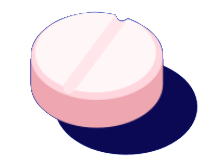
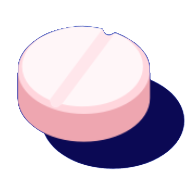
💊 improve home screen

diff --git a/frontend/src/views/scan.tsx b/frontend/src/views/scan.tsx
@@ -1,4 +1,4 @@
-import React, { useCallback, useEffect, useRef, useState } from 'react'
+import React, { useEffect, useRef, useState } from 'react'
 import { Button } from '../components/button'
 import { cs } from '../cs'
 import { functions, storage } from '../firebase'
@@ -84,7 +84,7 @@ export function ScanView() {
       navigator.permissions.query({ name: 'camera' }).then((result) => {
         setPermission(result.state)
         if (result.state === 'granted') {
-          start()
+          capturer.current.start()
         }
 
         result.onchange = function () {
@@ -102,9 +102,9 @@ export function ScanView() {
     }
   }, [])
 
-  const start = useCallback(() => {
+  const handleStartButton = () => {
     capturer.current.start()
-  }, [])
+  }
 
   const capture = async () => {
     setProcessing(true)
@@ -139,7 +139,7 @@ export function ScanView() {
       <div>
         <p>Place the prescription label within the frame.</p>
       </div>
-      {permission === 'prompt' ? <button onClick={start}>Start</button> : null}
+      {permission === 'prompt' ? <button onClick={handleStartButton}>Start</button> : null}
       <div className={cs('fixed', 'bottom-0', 'left-0', 'right-0', 'flex', 'justify-center', 'pb-8')}>
         <Button onClick={capture}>Scan</Button>
       </div>

diff --git a/frontend/src/views/home.tsx b/frontend/src/views/home.tsx
@@ -15,11 +15,24 @@ export function Home() {
 
 function MedicationCard() {
   return (
-    <div className={cs('rounded-md', 'bg-brand-white', 'p-6', 'text-brand-primary', 'flex')}>
-      <div></div>
+    <div className={cs('rounded-md', 'bg-brand-white', 'py-5', 'px-6', 'text-brand-primary', 'flex')}>
+      <div className={cs('w-24', 'h-24', 'mr-4')}>
+        <img src="/pills/tablet.png" width="220" height="166" className={cs('w-full', 'h-full', 'object-contain')} />
+      </div>
       <div className={cs('flex-grow', 'flex', 'flex-col')}>
-        <h3 className={cs('font-bold')}>Probiotic, 250mg</h3>
-        <span>1 pill, once per day</span>
+        <div className={cs('flex-grow')}>
+          <h3 className={cs('font-bold')}>Probiotic, 250mg</h3>
+          <span>1 pill, once per day</span>
+        </div>
+        <div className={cs('flex', 'h-5', 'items-center')}>
+          <div className={cs('flex-grow', 'flex', 'items-center')}>
+            <i className={cs('fas', 'fa-clock', 'leading-none', 'inline-block', 'h-4')}></i>
+            <div className={cs('ml-2')}>
+              <span>09:00AM</span>
+            </div>
+          </div>
+          <i className={cs('far', 'fa-bell', 'leading-none', 'inline-block', 'h-4')}></i>
+        </div>
       </div>
     </div>
   )

diff --git a/frontend/src/views/landing.tsx b/frontend/src/views/landing.tsx
@@ -14,7 +14,7 @@ export function LandingView() {
     if (!auth.isPending && auth.currentUser) {
       history.push('/home')
     }
-  }, [auth])
+  }, [auth, history])
 
   return (
     <div className={cs('min-h-screen', 'bg-brand-secondary', styles.layout, 'pt-16')}>

diff --git a/frontend/tailwind.config.js b/frontend/tailwind.config.js
@@ -205,7 +205,7 @@ module.exports = {
       none: '0',
       sm: '0.125rem',
       default: '0.25rem',
-      md: '0.375rem',
+      md: '1rem',
       lg: '1.5rem',
       full: '9999px',
     },
